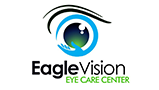
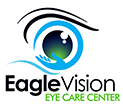
new fixes

diff --git a/index.html b/index.html
@@ -39,17 +39,58 @@
         position: relative;
         top: 15px;
     }
+    /* .supernav{
+        height: 40px;
+        background-color: #3D5FB3;
+        width: 100%;
+        display: flex;
+       
+    }
+    .add{
+        color:#fff;
+        position: relative;
+        top: 8px;
+    }
+    .mv{
+        position: relative;
+        top: 10px;
+        
+    }
+    @media only screen and (max-width: 600px) {
+        .add{
+        color:#fff;
+        position: relative;
+        top: 8px;
+        font-size: 13px;
+    }
+    .mv{
+        position: relative;
+        top: 10px;
+        font-size: 13px;
+        display: none;
+        
+    } 
+    .supernav{
+        height: 50px;
+       
+       
+    }
+    } */
+
    
 </style>
 <header>
 <div class="banner--wrap">
+    <!-- <div class="supernav">
+        <i class="fas fa-home mv" style="color: #fff;"></i>&nbsp;<span class="add">Plot 1A, Block 124, T.F Kuboye Street Alternative Route, Oniru, Lekki, Lagos</span> 
+    </div> -->
 <nav>
 <div class="container">
 <div class="row">
 <div class="col-md-12">
 
 <nav class="navbar navbar-expand-lg navbar-light">
-<a class="navbar-brand" href="index.html"><img src="images/log.png" alt="#" /></a>
+<a class="navbar-brand" href="index.html"><img src="images/log2.png" alt="#" /></a>
 <button class="navbar-toggler nav-custome1" type="button" data-toggle="collapse" data-target="#navbarSupportedContent" aria-controls="navbarSupportedContent" aria-expanded="false" aria-label="Toggle
                                         navigation">
 <span class="navbar-toggler-icon"></span>
@@ -607,8 +648,8 @@ of an emergency.
 <div class="row">
 <div class="col-md-12">
 <div class="sub-title_center">
-<span>---- Our Team ----</span>
-<h2>Our Team of Specialists</h2>
+
+<h2 style="text-align: center;">Our Team </h2>
 </div>
 </div>
 </div>
@@ -688,22 +729,44 @@ of an emergency.
 <h2>What Our Clients Say</h2>
 </div>
 <div class="testi-slider">
-<div class="testimonial-wrap">
-<img src="images/tes1.jpg" class="img-fluid testi-img-icon" alt="#" />
-<ul>
-<li><i class="fas fa-star"></i></li>
-<li><i class="fas fa-star"></i></li>
-<li><i class="fas fa-star"></i></li>
-<li><i class="fas fa-star"></i></li>
-<li><i class="fas fa-star"></i></li>
-</ul>
-<p>I do recommend the services of Eaglevision Eye Care Center. They are not only professional but very friendly to customers. I have been their customer for several years and their services after sale is also excellent. Their human relationship is super. They also have quality products with competitive pricing. I do recommend their services any day.
-</p>
-<span class="testi-name">Alhaji Dele Kadiri</span>
-<div class="testi-styled-bg">
-<img src="images/testi-side-img_05.png" class="img-fluid" alt="#" />
-</div>
-</div>
+
+    <div class="testimonial-wrap">
+        <img src="images/tes6.jpg" class="img-fluid testi-img-icon" alt="#" />
+        <ul>
+        <li><i class="fas fa-star"></i></li>
+        <li><i class="fas fa-star"></i></li>
+        <li><i class="fas fa-star"></i></li>
+        <li><i class="fas fa-star"></i></li>
+        <li><i class="fas fa-star"></i></li>
+        </ul>
+        <p>
+            Eaglevision Eye Care Center is focused on personal care, and making patients at ease from the very onset.They have a very nice ambiance and courteous staff . Their use of technology to help correct some issues i had with my eye due to long screen time was amazing. In less than 2 weeks, I had gotten an amzing UV glasses procured for me by Eaglevision Eye Care Center. They have amazing services and are worth recommeding.
+        </p>
+        <span class="testi-name">Captain Yemi</span>
+        <div class="testi-styled-bg">
+        <img src="images/testi-side-img_05.png" class="img-fluid" alt="#" />
+        </div>
+        </div>
+
+        <div class="testimonial-wrap quaternary-br-color">
+            <img src="images/tes2.jpg" class="img-fluid testi-img-icon" alt="#" />
+            <ul>
+            <li><i class="fas fa-star"></i></li>
+            <li><i class="fas fa-star"></i></li>
+            <li><i class="fas fa-star"></i></li>
+            <li><i class="fas fa-star"></i></li>
+            <li><i class="fas fa-star"></i></li>
+            </ul>
+            <p>
+                Eaglevision provides best-in- class optical care and is client friendly.
+            </p>
+            <span class="testi-name" style="position: relative;left:10%">Dr. Adesegun A. Akin-Olugbade, OON</span>
+            <div class="testi-styled-bg">
+            <img src="images/testi-side-img_05.png" class="img-fluid" alt="#" />
+            </div>
+            </div>
+  
+
 <div class="testimonial-wrap quaternary-br-color">
 <img src="images/tes5.jpg" class="img-fluid testi-img-icon" alt="#" />
 <ul>
@@ -721,23 +784,7 @@ of an emergency.
 <img src="images/testi-side-img_05.png" class="img-fluid" alt="#" />
 </div>
 </div>
-<div class="testimonial-wrap">
-<img src="images/tes2.jpg" class="img-fluid testi-img-icon" alt="#" />
-<ul>
-<li><i class="fas fa-star"></i></li>
-<li><i class="fas fa-star"></i></li>
-<li><i class="fas fa-star"></i></li>
-<li><i class="fas fa-star"></i></li>
-<li><i class="fas fa-star"></i></li>
-</ul>
-<p>
-    Eaglevision provides best-in- class optical care and is client friendly.
-</p>
-<span class="testi-name">Dr. Adesegun A. Akin-Olugbade, OON</span>
-<div class="testi-styled-bg">
-<img src="images/testi-side-img_05.png" class="img-fluid" alt="#" />
-</div>
-</div>
+
 <div class="testimonial-wrap quaternary-br-color">
 <img src="images/tes3.jpg" class="img-fluid testi-img-icon" alt="#" />
 <ul>
@@ -755,6 +802,23 @@ of an emergency.
 <img src="images/testi-side-img_05.png" class="img-fluid" alt="#" />
 </div>
 </div>
+
+<div class="testimonial-wrap">
+    <img src="images/tes1.jpg" class="img-fluid testi-img-icon" alt="#" />
+    <ul>
+    <li><i class="fas fa-star"></i></li>
+    <li><i class="fas fa-star"></i></li>
+    <li><i class="fas fa-star"></i></li>
+    <li><i class="fas fa-star"></i></li>
+    <li><i class="fas fa-star"></i></li>
+    </ul>
+    <p>I do recommend the services of Eaglevision Eye Care Center. They are not only professional but very friendly to customers. I have been their customer for several years and their services after sale is also excellent. Their human relationship is super. They also have quality products with competitive pricing. I do recommend their services any day.
+    </p>
+    <span class="testi-name">Alhaji Dele Kadiri</span>
+    <div class="testi-styled-bg">
+    <img src="images/testi-side-img_05.png" class="img-fluid" alt="#" />
+    </div>
+    </div>
 </div>
 </div>
 </div>
